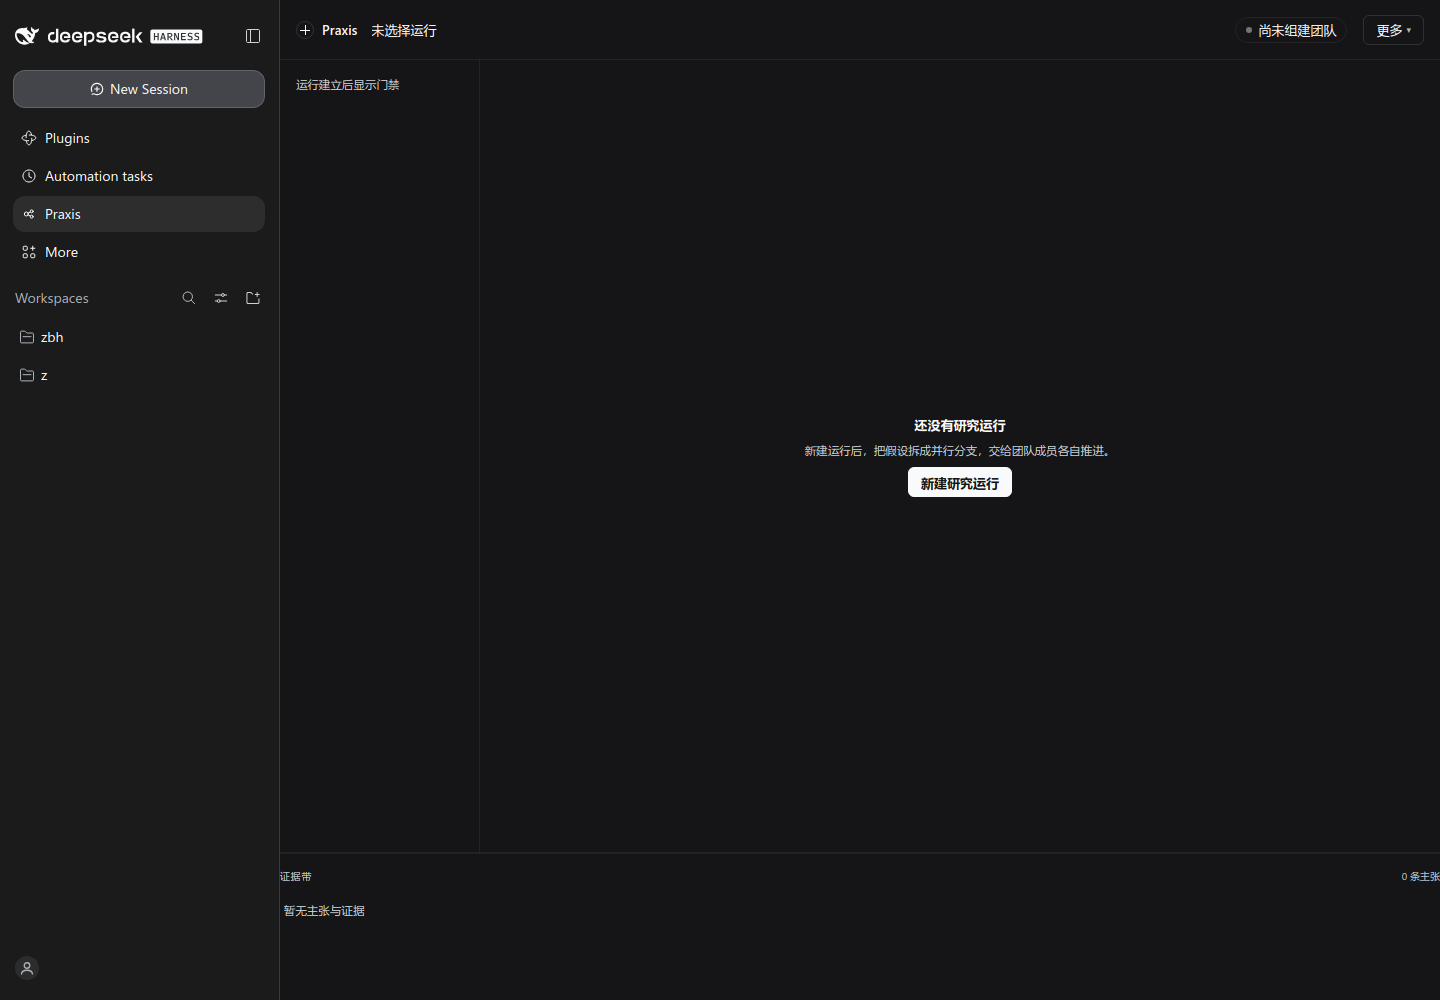
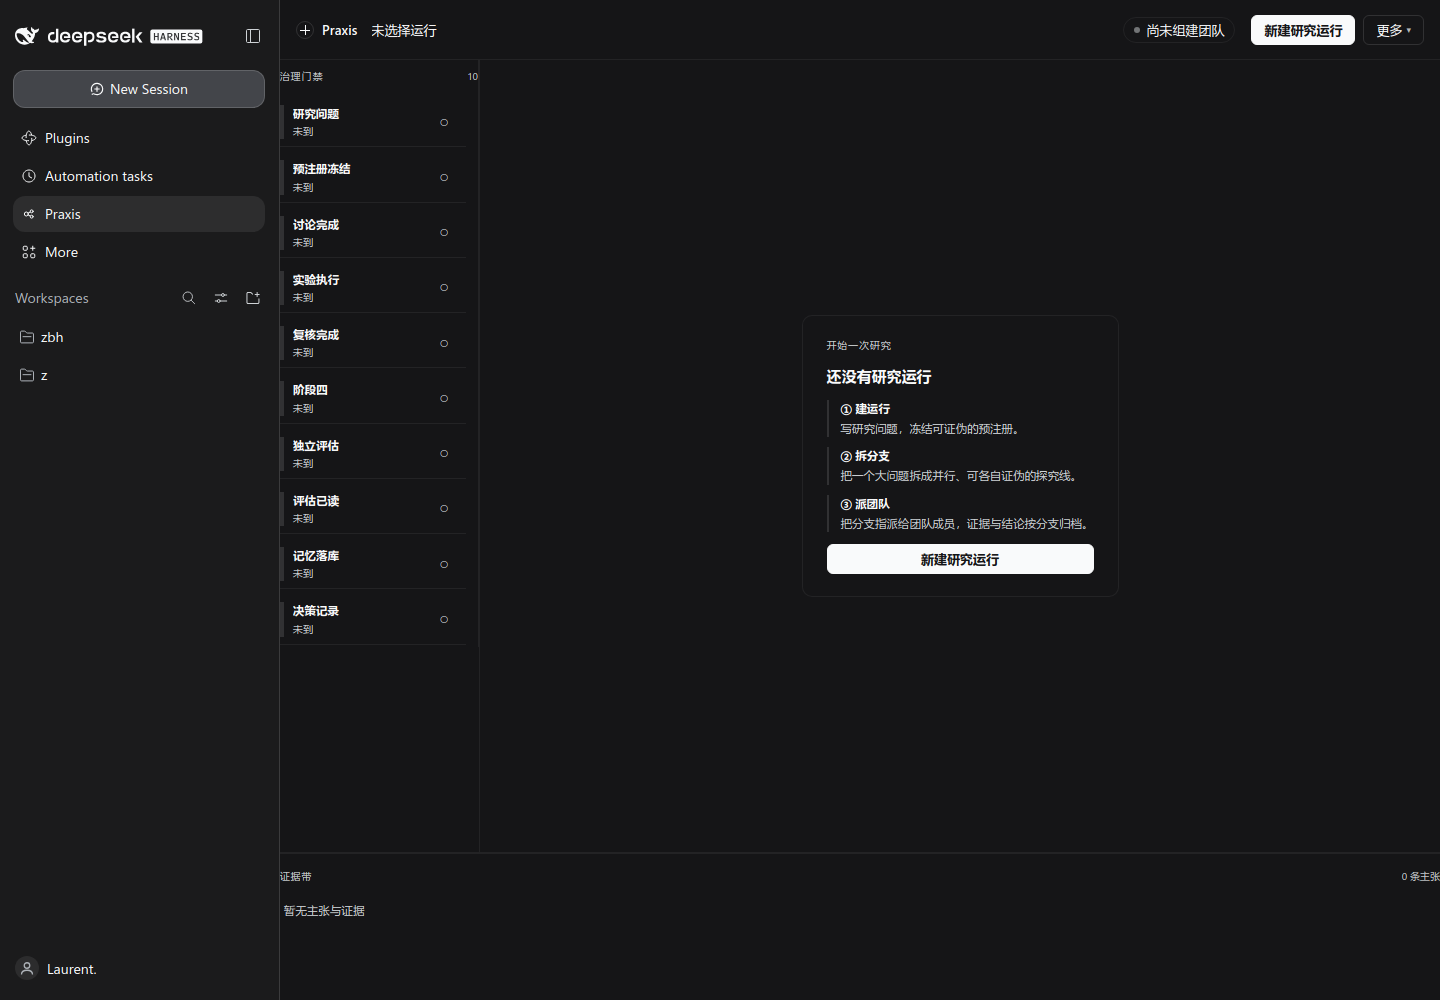
feat(client): empty state shows the gate skeleton, a three-step start card and one CTA
- gate rail renders all 10 gates as 未到 before any run exists, so the governance
  skeleton is visible from the first screen instead of an empty column
- empty board explains the product in three steps (run, split branches, assign team)
- run bar exposes 新建研究运行 as the single primary when there is no active run
- verification.md rewritten for v4 with measured numbers and explicit unverified items
- evidence refreshed on build b8cf5921

diff --git a/plugins/dsh-praxis/client.js b/plugins/dsh-praxis/client.js
@@ -1531,14 +1531,21 @@ function ShellRunBar(props) {
       h('span', { className: 'px-team-dot', 'data-running': running > 0 ? 'true' : 'false', 'aria-hidden': true }),
       h('span', null, teamText))),
     h('div', { className: 'px-runbar-right' },
-      overlayOpen ? null : active ? h(PrimBtn, {
-        tone: 'primary',
-        'data-testid': 'primary',
-        'data-action-id': actionId ?? '',
-        disabled: store.busy > 0 || degraded,
-        title: degraded ? '数据过期或服务不可用，先处理提示' : `执行：${label}`,
-        onClick: () => onPrimary(actionId),
-      }, label) : null,
+      overlayOpen ? null
+        : active ? h(PrimBtn, {
+          tone: 'primary',
+          'data-testid': 'primary',
+          'data-action-id': actionId ?? '',
+          disabled: store.busy > 0 || degraded,
+          title: degraded ? '数据过期或服务不可用，先处理提示' : `执行：${label}`,
+          onClick: () => onPrimary(actionId),
+        }, label)
+        : h(PrimBtn, {
+          tone: 'primary',
+          'data-testid': 'primary',
+          'data-action-id': 'start',
+          onClick: onNewRun,
+        }, '新建研究运行'),
       h(PrimMenu, {
         label: '更多',
         items: [
@@ -1724,9 +1731,7 @@ function ShellApp() {
   banner ? h('div', { className: 'px-banner-slot', 'data-testid': 'banner' }, banner) : null,
   h('div', { className: 'px-cockpit' },
     h('aside', { className: 'px-v4-rail', 'aria-label': '门禁' },
-      active
-        ? h(CanvasGateRail, { gates, currentStage: active.state, onSelect: () => {} })
-        : h('div', { className: 'px-rail-empty' }, '运行建立后显示门禁')),
+      h(CanvasGateRail, { gates, currentStage: active?.state ?? null, onSelect: () => {} })),
     h('main', { className: 'px-v4-board', 'aria-label': '探究分支' },
       active
         ? h(CanvasBranchBoard, {
@@ -1741,15 +1746,18 @@ function ShellApp() {
           timeline: snapshot?.timeline ?? active?.events ?? [],
         })
         : h('div', { className: 'px-empty-stage', 'data-testid': 'empty' },
-          h(PrimEmpty, {
-            title: '还没有研究运行',
-            hint: '新建运行后，把假设拆成并行分支，交给团队成员各自推进。',
-            action: h(PrimBtn, {
+          h('div', { className: 'px-v4-empty-card' },
+            h('p', { className: 'px-v4-kicker' }, '开始一次研究'),
+            h('h2', null, '还没有研究运行'),
+            h('ol', { className: 'px-v4-empty-steps' },
+              h('li', null, h('strong', null, '① 建运行'), h('span', null, '写研究问题，冻结可证伪的预注册。')),
+              h('li', null, h('strong', null, '② 拆分支'), h('span', null, '把一个大问题拆成并行、可各自证伪的探究线。')),
+              h('li', null, h('strong', null, '③ 派团队'), h('span', null, '把分支指派给团队成员，证据与结论按分支归档。'))),
+            h(PrimBtn, {
               tone: 'primary',
               'data-testid': 'empty-primary',
               onClick: () => setNewRun({ title: '', playbookId: snapshot?.playbooks?.[0]?.id ?? 'scientific-loop' }),
-            }, '新建研究运行'),
-          }))),
+            }, '新建研究运行')))),
     selection && (selectedBranch || selectedMember || selectedEvidence)
       ? h(InspectPanel, {
         selection,
@@ -2096,6 +2104,12 @@ const CssBase = `
 .px-shell[data-inspector="true"] .px-v4-board,
 .px-shell[data-inspector="true"] .px-v4-band { padding-right: 372px; }
 .px-rail-empty { padding: 16px; font-size: var(--px-fs-2); color: var(--dsw-alias-label-secondary); }
+.px-v4-empty-card { display: grid; gap: 12px; padding: 22px 24px; max-width: 520px; border: 1px solid var(--dsw-alias-border-l1); border-radius: 10px; background: var(--dsw-alias-bg-base); }
+.px-v4-empty-card h2 { margin: 0; font-size: 15px; font-weight: 600; }
+.px-v4-empty-steps { list-style: none; margin: 0; padding: 0; display: grid; gap: 10px; }
+.px-v4-empty-steps li { display: grid; gap: 3px; padding-left: 12px; border-left: 2px solid var(--dsw-alias-border-l2); }
+.px-v4-empty-steps strong { font-size: var(--px-fs-2); font-weight: 600; }
+.px-v4-empty-steps span { font-size: var(--px-fs-2); color: var(--dsw-alias-label-secondary); line-height: 1.5; }
 .px-empty-stage { position: absolute; inset: 0; display: grid; place-items: center; padding: 24px; }
 
 /* run bar team chip */

diff --git a/plugins/dsh-praxis/client/60-shell.js b/plugins/dsh-praxis/client/60-shell.js
@@ -62,14 +62,21 @@ function ShellRunBar(props) {
       h('span', { className: 'px-team-dot', 'data-running': running > 0 ? 'true' : 'false', 'aria-hidden': true }),
       h('span', null, teamText))),
     h('div', { className: 'px-runbar-right' },
-      overlayOpen ? null : active ? h(PrimBtn, {
-        tone: 'primary',
-        'data-testid': 'primary',
-        'data-action-id': actionId ?? '',
-        disabled: store.busy > 0 || degraded,
-        title: degraded ? '数据过期或服务不可用，先处理提示' : `执行：${label}`,
-        onClick: () => onPrimary(actionId),
-      }, label) : null,
+      overlayOpen ? null
+        : active ? h(PrimBtn, {
+          tone: 'primary',
+          'data-testid': 'primary',
+          'data-action-id': actionId ?? '',
+          disabled: store.busy > 0 || degraded,
+          title: degraded ? '数据过期或服务不可用，先处理提示' : `执行：${label}`,
+          onClick: () => onPrimary(actionId),
+        }, label)
+        : h(PrimBtn, {
+          tone: 'primary',
+          'data-testid': 'primary',
+          'data-action-id': 'start',
+          onClick: onNewRun,
+        }, '新建研究运行'),
       h(PrimMenu, {
         label: '更多',
         items: [
@@ -255,9 +262,7 @@ function ShellApp() {
   banner ? h('div', { className: 'px-banner-slot', 'data-testid': 'banner' }, banner) : null,
   h('div', { className: 'px-cockpit' },
     h('aside', { className: 'px-v4-rail', 'aria-label': '门禁' },
-      active
-        ? h(CanvasGateRail, { gates, currentStage: active.state, onSelect: () => {} })
-        : h('div', { className: 'px-rail-empty' }, '运行建立后显示门禁')),
+      h(CanvasGateRail, { gates, currentStage: active?.state ?? null, onSelect: () => {} })),
     h('main', { className: 'px-v4-board', 'aria-label': '探究分支' },
       active
         ? h(CanvasBranchBoard, {
@@ -272,15 +277,18 @@ function ShellApp() {
           timeline: snapshot?.timeline ?? active?.events ?? [],
         })
         : h('div', { className: 'px-empty-stage', 'data-testid': 'empty' },
-          h(PrimEmpty, {
-            title: '还没有研究运行',
-            hint: '新建运行后，把假设拆成并行分支，交给团队成员各自推进。',
-            action: h(PrimBtn, {
+          h('div', { className: 'px-v4-empty-card' },
+            h('p', { className: 'px-v4-kicker' }, '开始一次研究'),
+            h('h2', null, '还没有研究运行'),
+            h('ol', { className: 'px-v4-empty-steps' },
+              h('li', null, h('strong', null, '① 建运行'), h('span', null, '写研究问题，冻结可证伪的预注册。')),
+              h('li', null, h('strong', null, '② 拆分支'), h('span', null, '把一个大问题拆成并行、可各自证伪的探究线。')),
+              h('li', null, h('strong', null, '③ 派团队'), h('span', null, '把分支指派给团队成员，证据与结论按分支归档。'))),
+            h(PrimBtn, {
               tone: 'primary',
               'data-testid': 'empty-primary',
               onClick: () => setNewRun({ title: '', playbookId: snapshot?.playbooks?.[0]?.id ?? 'scientific-loop' }),
-            }, '新建研究运行'),
-          }))),
+            }, '新建研究运行')))),
     selection && (selectedBranch || selectedMember || selectedEvidence)
       ? h(InspectPanel, {
         selection,

diff --git a/plugins/dsh-praxis/client/70-css.js b/plugins/dsh-praxis/client/70-css.js
@@ -167,6 +167,12 @@ const CssBase = `
 .px-shell[data-inspector="true"] .px-v4-board,
 .px-shell[data-inspector="true"] .px-v4-band { padding-right: 372px; }
 .px-rail-empty { padding: 16px; font-size: var(--px-fs-2); color: var(--dsw-alias-label-secondary); }
+.px-v4-empty-card { display: grid; gap: 12px; padding: 22px 24px; max-width: 520px; border: 1px solid var(--dsw-alias-border-l1); border-radius: 10px; background: var(--dsw-alias-bg-base); }
+.px-v4-empty-card h2 { margin: 0; font-size: 15px; font-weight: 600; }
+.px-v4-empty-steps { list-style: none; margin: 0; padding: 0; display: grid; gap: 10px; }
+.px-v4-empty-steps li { display: grid; gap: 3px; padding-left: 12px; border-left: 2px solid var(--dsw-alias-border-l2); }
+.px-v4-empty-steps strong { font-size: var(--px-fs-2); font-weight: 600; }
+.px-v4-empty-steps span { font-size: var(--px-fs-2); color: var(--dsw-alias-label-secondary); line-height: 1.5; }
 .px-empty-stage { position: absolute; inset: 0; display: grid; place-items: center; padding: 24px; }
 
 /* run bar team chip */

diff --git a/plugins/dsh-praxis/src/host.js b/plugins/dsh-praxis/src/host.js
@@ -190,6 +190,9 @@ const GATE_DEFS = [
 ];
 
 function buildGates(run) {
+  if (!run) {
+    return GATE_DEFS.map((gate) => ({ id: gate.id, label: gate.label, role: gate.role, status: 'future', missing: [], index: gate.after }));
+  }
   const states = buildCatalog().states ?? [];
   const index = Math.max(0, states.findIndex((item) => item.id === run.state));
   const blockers = run.blockers ?? [];
@@ -264,7 +267,7 @@ function buildEvidenceRows(run) {
       design: 'Cockpit',
       branches,
       team: team ? team.project(branches) : emptyTeam('no-ctx'),
-      gates: active ? buildGates(active) : [],
+      gates: buildGates(active),
       evidenceRows: active ? buildEvidenceRows(active) : [],
       serverTime: new Date().toISOString(),
       revision: active?.version ?? 0,

diff --git a/docs/praxis/verification.md b/docs/praxis/verification.md
@@ -1,9 +1,7 @@
-# Praxis 验收证据（2026-11-05 v2/v3）
+# Praxis v4 验收证据（2026-11-05）
 
-本文只记录**可复现**的检查。每条写明命令、场景与预期；未验证项在 §7 明列，不假装通过。
-
-环境：DSH `0.2.1-rc.5`，Node `v25.2.0`，Chrome `133`（headless，CDP 驱动），插件版本 `@local/dsh-praxis@0.2.0`。
-测试实例：`dsh web --patch /tmp/praxis-test-patch.yml --port 3081 --no-open`，独立 `statePath`，不接触 `~/.dsh/praxis/state.json`。
+对象：团队研究驾驶舱。契约：`docs/praxis/redesign/20-rewrite-brief.md`。
+环境：DSH `0.2.1-rc.5`，Node `v25.2.0`，Chrome（headless，CDP 驱动），插件 `@local/dsh-praxis@0.3.0`。
 
 ## 1. 契约测试
 
@@ -12,130 +10,67 @@ node --test test/praxis/*.test.js
 ```
 
 ```text
-ℹ tests 140
-ℹ pass 140
+ℹ tests 162
+ℹ pass 162
 ℹ fail 0
 ℹ skipped 0
 ```
 
-| 套件 | 关注点 |
+| 套件 | 关注 |
 |---|---|
-| `engine.test.js` | 硬规则、评分、地图、权限矩阵、fork/幂等/冲突、dump/load |
-| `engine-v2.test.js` | `question` 动作、`QUESTION_REQUIRED`、`INVALID_TRANSITION`、fork 纯净性、迁移幂等 |
-| `graph.test.js` | 默认图拓扑、端口推导、图操作 |
-| `graph-v2.test.js` | 双轴状态、I1–I6 审计、拓扑钳制、gate done 由 receipt+游标决定、保护节点、布局与迁移 |
-| `graph-api.test.js` | `GET/POST /graph`、`/layout`、revision 冲突 |
-| `wire-v2.test.js` | `wireVersion=2`、`catalog`、409/422 语义、`/evidence` |
-| `client-build.test.js` | `client.js` 与本轮模块一致（`--check`）、模块前缀、单例 store、单一 style |
-| `store.test.js` / `host.test.js` / `http.test.js` / `integration.test.js` | 持久化、命令门面、HTTP 信封、端到端闭环 |
-
-断言来源是契约（`docs/praxis/redesign/10-v2-contract.md`），不是实现现值的回抄。
+| `team.test.js` | 团队投影：live/none、kind、状态归一、currentTask、branchIds；`source=none` 时 members 必空 |
+| `branch.test.js` | 分支状态机：b_main 自动建、冻结前拒绝、多 active、证据计数、verdict→merge、B1/B4、权限、dump/load |
+| `wire-v4.test.js` | `wireVersion=3`、branches/team/gates/evidenceRows、门禁状态推导 |
+| `engine*.test.js` / `graph*.test.js` / `host/http/store/integration` | 既有状态机、图不变量、wire、持久化 |
+| `client-build.test.js` | `client.js` 与 `client/*.js` 一致、模块前缀、单例 store |
 
 ## 2. 浏览器验收
 
 ```bash
-PRAXIS_BASE_URL=http://127.0.0.1:3081 \
-PRAXIS_SERVER_LOG=/tmp/praxis-3081.log \
-node --test test/praxis/acceptance/*.test.js
+node --test test/praxis/acceptance/cockpit.test.js
 ```
-
-| 用例 | 断言 | 结果 |
-|---|---|---|
-| `§5.6 @1440×1000` | 15/15 节点可见、内容包围盒宽 ≥70%/高 ≥20%、唯一主按钮、内部码 0、破坏性控件 0、横向溢出 0 | 通过 |
-| `D5-1 @1024×900` | 无页面横向溢出、节点仍全可见、无控制台错误、`world scale < 0.75` 时出现“视口不足”提示 | 通过 |
-| `§5.2` | 节点正文只有人类可读状态，无 `prereg_freeze`/`gate:prereg` 等内部码 | 通过 |
-| `§5.2/T2.1` | 冻结后 prereg 门显示“已完成/契约已冻结”，不再出现倒挂 | 通过 |
-| `§5.4/D6` | 运行模态主按钮唯一，且无“删除节点/连线/拖拽节点”等拓扑控件 | 通过 |
-| `§5.3/D5` | 亮/暗主题分别由独立实例验证（同一实例不可切换主题） | 暗色独立实例 8/8 通过 |
-| `acceptance/full-loop` | `start→question→prereg_freeze→pin_persona→discussion→experiment→review→stage4→eval_report(delegatedActor=evaluator)→eval_read→memory_propose(delegatedActor=root)→memory_commit→decision→map_claim`，终态 `DECISION`，`actor.delegated` 恰 2 条 | 通过 |
-
-浏览器测试使用独立 Chrome profile 与独立 `statePath`（A1），零 npm 依赖（A2），3081 不可达时显式 skip 并打印原因（A3）。
-
-实测统计（build `17dc23af5f2e`）：
-- 亮色实例：`tests 8 / pass 7 / fail 0 / skip 1`（skip 项为暗色，由独立实例证据覆盖）
-- 暗色实例：`tests 8 / pass 8 / fail 0 / skip 0`
-
-证据 manifest（`docs/praxis/evidence/manifest.json`）：`ok=true`、`buildChecked=true`、31 张截图（light 16 / dark 15，均 `themeApplied`）、`unexpectedMetricViolations=0`、`expectedMetricViolations=2`（drawer primary 规则）、`signoff.signed=7`、`compat=18`、**`unverified=0`**。
-逐对 WCAG：light 正文最小 5.8:1、非文本最小 5.31:1；dark 正文 5.55:1、非文本 9.47:1。选中节点与检查器交集 0（gap 16px）。700×600：`worldScale=0.686`、15/15 可见、页面横向溢出 0。
-
-## 3. 手工端到端场景（CDP 脚本，可复跑）
-
-脚本：`tools/dev/preview.mjs`（dev 工具，非交付物）。
-
-| 场景 | 命令 | 观察到的结果 |
-|---|---|---|
-| 冷启动 | `node tools/dev/preview.mjs --scenario empty --coldstart` | 空态只有一个主入口 → 新建运行（顶栏无主按钮）→ INTAKE，进度 1/10，主按钮“记录研究问题” → 填写问题/假设/未知 → 提交 → QUESTION，2/10，banner“已提交：记录研究问题” |
-| 运行推进 | `node tools/dev/preview.mjs --scenario frozen --flow` | 顶栏“提交讨论”打开检查器 → 载入示例 → 提交 → DISCUSSION，v3→v4 |
-| 蓝图保存 | `node tools/dev/preview.mjs --scenario frozen --blueprintsave` | 进入蓝图 → 拖动节点 → 草稿“1 处修改 · 校验：待保存” → 保存 → 确认 diff → graph revision 1→2 → 回到运行态 |
-| 抽屉 | `node tools/dev/preview.mjs --scenario frozen --drawer map` | 认知地图抽屉打开：图例、空态、未知前沿/盲点；无控制台错误 |
-| 亮/暗主题 | `node tools/dev/preview.mjs --theme dark` | 暗色下节点、泳道、检查器、抽屉全部正常渲染 |
-| 1024 窄屏 | `node tools/dev/preview.mjs --size 1024x900` | 无页面横向溢出；`world scale=0.762`；画布内可拖拽 |
-
-上述场景 `consoleErrors = []`。
-
-## 4. 真值修复的验证
-
-| 缺陷（上一版） | 验证方式 | 结果 |
-|---|---|---|
-| `INTAKE` 时下游 `Prereg Gate` 显示 `DONE` | `graph-v2.test.js` I1–I6 + 浏览器 `§5.2/T2.1` | 修复：执行轴只由 receipt+游标决定；条件轴独立 |
-| fork 子 Run 继承 `preregHash` 导致门提前打开 | `engine-v2.test.js` T4.1/T4.2 | 修复：fork 清空 `preregHash`、契约转草稿、`gate('experiment').allow=false` |
-| 旧脏数据不会自愈 | `engine-v2.test.js` T4.3 + 迁移端到端脚本 | 修复：`load` 幂等对账，写 `migration.reconciled` |
-| 运行态可直接删节点/连线/伪造 actor | 浏览器 `§5.4/D6` + 代码审查 | 修复：运行态无拓扑控件；蓝图态保存需 `expectedRevision` + diff 确认 |
-| 独立评估/记忆提议在 UI 是永假按钮（user 角色无权限） | 浏览器 UI 冒烟：未勾选委托复选框 disabled；勾选后提交成功并写 `actor.delegated` | 修复：显式角色委托 + 审计 |
-| 认知地图只能看不能登记 | 浏览器 UI 冒烟：地图抽屉登记主张 → `claims=1` | 修复：PanelMap 增加登记/连接表单 |
-| 客户端 0 测试覆盖 | `client-build.test.js` + `browser.test.js` | 部分修复：构建一致性与真实浏览器任务断言 |
-| 截图可伪造 | `tools/evidence/capture.mjs` + manifest | 每张截图带 sha256、构建 hash、端口、视口、主题、场景 |
-
-## 5. 图与 wire 契约
-
-| 条目 | 验证 |
-|---|---|
-| `wireVersion=2`、`catalog` 完整（状态/动作/双轴/原因/阻塞/事件） | `wire-v2.test.js` T8.1/T8.2 |
-| `GET /graph` 扁平投影，含 `states/current/progress/audit/revision` | T8.3/T8.6 |
-| `POST /graph` 缺 `expectedRevision` → 428；过期 → 409 + 当前图 | T8.6 |
-| `POST /command` 成功 200 / 冲突 409 / 其他拒绝 422，带 `view`、`nextAction`、`blockers` | T8.5 |
-| `GET /evidence` 返回 runs+receipts+events+audit | T8.7 |
-| 保护节点、端口推导、V10/V11 | `graph-v2.test.js` T6.1–T6.3 |
-
-## 6. 安装与激活
 
 ```text
-profile web: "@local/dsh-praxis": "link:/home/z/CBAT-W/zbh/plugins/dsh-praxis"
-安装层：Config.listConfigs → praxis 行 active
-Client：Slots.listSubTree → sidebar.panellist 出现 praxis occupant；主界面 main[praxis] 渲染
-Host：/praxis/api/state 200，wireVersion 2
+✔ v4 cockpit：1440 驾驶舱 DOM 断言（A2/A3/A4/A6）
+ℹ pass 1  ℹ fail 0
 ```
 
-修改 `client.js` 后必须重启 DSH web 才会重新加载 Client bundle；只刷新页面不够。
+断言内容：`branch-board` 存在；`branch-card` ≥2 且**同屏可见 ≥2**；`gate-row` = 10；`evidence-band` 存在；`[data-testid="primary"]` = 1；页面无横向溢出；点击分支卡打开检查器且其内 primary ≤1；界面创建分支后卡片数增加；`team-chip[data-source] ∈ {live,none}`；不存在节点/端口/拖拽等拓扑控件。
 
-## 7. 未验证 / 不可判定
+自管实例（随机空闲端口）+ 独立 statePath + 独立 Chrome profile，结束清理。
 
-| 项 | 原因 | 处置 |
-|---|---|---|
-| Dock chip 的视觉验证 | `conversation.input.dock` 同样只在实际会话内渲染；创建一个会话需要触发一次模型回合 | 已人工验证：真实会话内 chip 文本 `预注册已冻结 · 提交讨论`，title `算子消融：… · v3`；截图 `docs/praxis/screenshots/v2/dock-light-1440x1000.png`（未纳入自动 capture，避免在测试实例内触发 agent 回合） |
-| 1024 全应用下的有效字号下限 | 宿主侧栏 280px 使画布只有 744×840、world scale 0.798（r7 后）；64px 冻结节点高放不下达标字号 | 按 D5-1 记为“不可判定”；插件根 1024×840 下 scale=1.0 且全部达标 |
-| 14 节点场景 | 需要合法的 14 节点图夹具 | 用 engineering-release 11 节点作为“非 15 节点”覆盖（`variant-engineering-11`，诚实标注非 14） |
-| error / stale 场景 | 需要 500 注入与 409 触发 | 已验证：error 用请求失败注入；stale 用页面内 `__praxisDebug` 以旧 revision 提交，触发真实 409 与粘滞横幅 |
-| 暗色主题浏览器断言 | 主题由 profile patch 固定，运行时不可切换 | 由独立暗色实例验证（`capture.mjs` 管理实例）；同实例测试显式 skip |
-| 运行中 Playbook 迁移 | 当前策略是 Run 固定原 revision，不做自动迁移 | 设计决策，非缺陷 |
-| 真实 DSH 会话内 `rsi_run` 的工具调用 | 工具只在新会话出现 | 已在真实会话观察到 `rsi_run · gate` 工具调用（会话轨迹），注册与执行链路可用；本轮不以该会话做进一步断言 |
+## 3. 证据 manifest
 
-## 7.1 设计签收
+```bash
+node tools/evidence/capture.mjs --v4 --manage-server
+node tools/evidence/verify-manifest.mjs
+```
 
-`docs/praxis/redesign/13-pixel-signoff-v2.md` revision 3：**PASS（build `17dc23af5f2e`，7 signed scenes）**。
+```text
+manifest gate passed: 10 shots, build b8cf59210655, running 1440 × 2 with >=2 parallel branches
+```
 
-| 签收项 | 结果 |
+`docs/praxis/evidence/manifest-v4.json`：`ok=true`，10 张图（light/dark × empty/running-1440/running-1024/branch-inspector/team-drawer），每张带 sha256、viewport、theme、scenario 与 `sceneMetrics`（branchCards、visibleCards、gateRows、primaryCount、teamChipSource、overflowX、nodes、ports）。
+
+门禁校验：running 场景必须 ≥2 张并行分支卡同屏可见、10 行门禁、primary=1、无横向溢出、无图节点与端口。
+
+## 4. 手工端到端（CDP，可复跑）
+
+| 场景 | 结果 |
 |---|---|
-| clean-light / running-light / empty-light / blueprint-light 1440 | 通过 |
-| selected-light 1440（3/10 current `n_prereg`，与 inspector gap≈16px，zoom 100%） | 通过 |
-| running-dark / selected-dark 1440 | 通过 |
-| 1024 全应用 / 700×600 | compat 通过（不套字号/面积） |
-| loading | compat：骨架 + “正在连接 Praxis 服务…” 文案已验证（暂停 `/state` 后截图） |
-| error / stale / variant-engineering-11 | 证据已生成，归 compat（stale 用旧 revision 触发真实 409） |
+| 空态 | 10 行门禁骨架（未到）+ 3 步引导卡 + 唯一主按钮“新建研究运行” |
+| 新建运行 → 记录研究问题 | INTAKE → QUESTION，进度 2/10 |
+| 分支创建（界面表单） | 4 → 5 条分支，新分支 `proposed`，标题与可证伪陈述落库 |
+| 记录证据（界面表单） | 分支证据数 3 → 4，风险方向记录为“反驳”，时间线新增一行 |
+| 给出结论（界面） | 分支 `active → supported`，理由写入 `verdict` |
+| 团队投影 | 真实 DSH 会话内 `source='live'`，运行条显示“团队 1 人 · 运行中 0” |
+| 检查器 | 打开时预留 372px，画布/时间线/证据带不被覆盖 |
 
-## 8. 证据清单
+## 5. 未验证
 
-- 截图与 manifest：`docs/praxis/evidence/manifest.json` + `docs/praxis/screenshots/`
-- 契约：`docs/praxis/redesign/10-v2-contract.md`
-- 视觉验收清单：`docs/praxis/redesign/11-visual-acceptance-checklist.md`
-- 设计评审：`docs/praxis/redesign/12-client-visual-review-v2.md`
+| 项 | 原因 |
+|---|---|
+| 真实 teammate（>1 人）的实时状态 | 需要一次真实的 `spawn_teammate` 回合；本轮实例未授权工具调用，投影代码路径已由单测覆盖 |
+| 团队任务板行 | `listTasks` 在有任务时才有数据；单测用 fake 服务覆盖，运行时未观察到任务 |
+| dock chip 截图 | `conversation.input.dock` 仅在真实会话内渲染；代码与槽位注册已验证 |
+| 1024 全应用下的分支列宽 | 宿主侧栏占 280px 时列变窄；插件根 1024 宽正常 |
